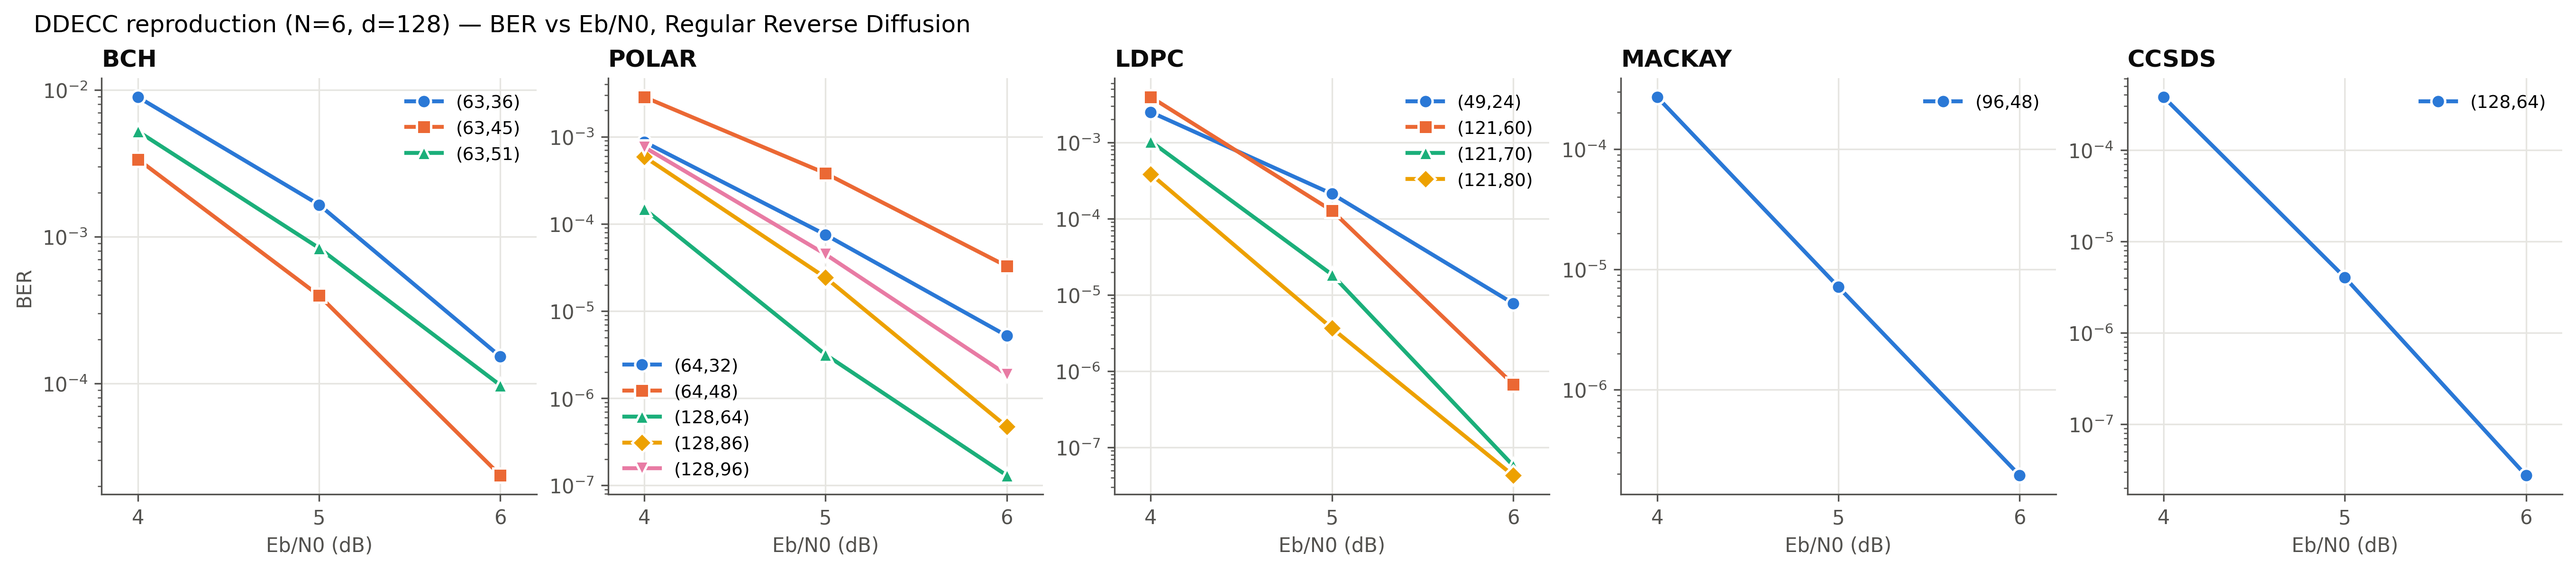
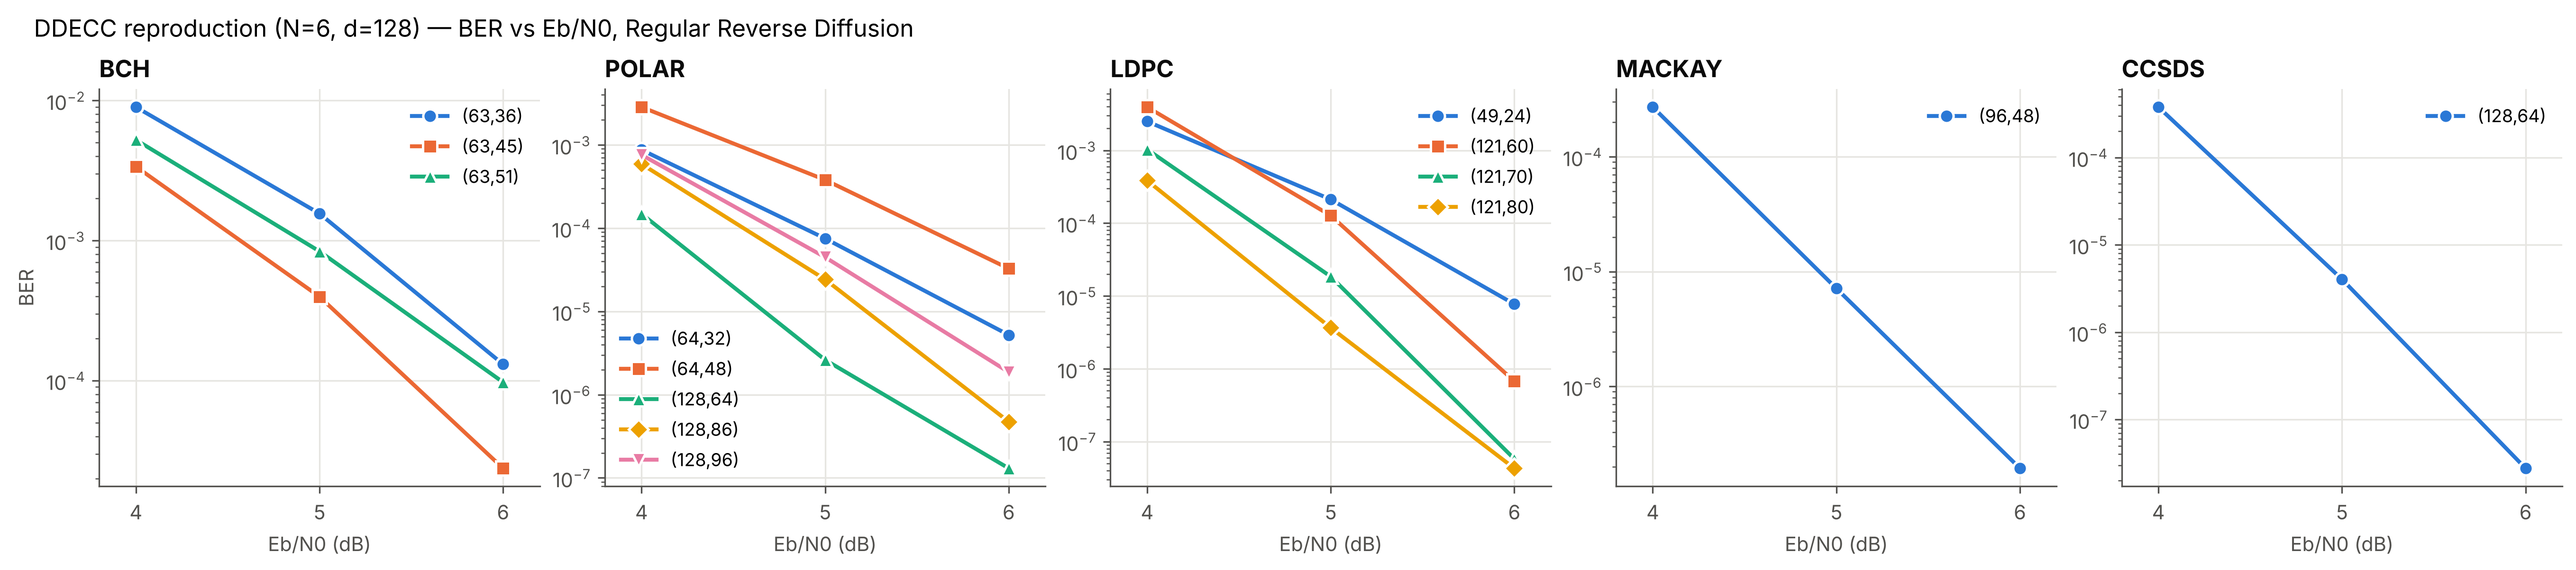
Fix result selection: prefer the most precise test of each point
- when a point was tested more than once, use the finished test that meets
  the paper's rule (>= 500 frame errors or 1e7 frames), then the one with
  more frame errors (before: the first log found)
- order old run folders by the time in their names, not by file dates
- mark points with < 500 frame errors (¹) and unknown frame counts (?);
  STRICT_500 option re-tests them
- regenerated results.csv, figures and README tables

Claude-Session: https://claude.ai/code/session_014M5jyY92kUSy41iFM7xkhz

diff --git a/scripts/ddecc_all_in_one.py b/scripts/ddecc_all_in_one.py
@@ -28,6 +28,7 @@ RETRAIN = {}            # e.g. {("BCH", 63, 36): 1, ("POLAR", 128, 86): 1}  -> c
 EBNO = [4, 5, 6]
 TEST_MODES = ["reg", "LS"]
 MIN_FER, MIN_FRAMES, MAX_FRAMES = 500, 1e5, 1e7
+STRICT_500 = False      # True: points that stopped with < 500 frame errors (old tests) are tested again in step 5
 TEST_BATCH, SEED, SAVE_EVERY_S = 2048, 42, 120
 # ======================================================================
 
@@ -64,6 +65,15 @@ def name(c):
     return f"{c[0]}({c[1]},{c[2]})"
 
 
+def folder_time(p):
+    # run folders end with __DD_MM_YYYY_HH_MM_SS: order by that time, not by Drive's file dates
+    m = re.search(r"__(\d\d)_(\d\d)_(\d{4})_(\d\d)_(\d\d)_(\d\d)$", Path(p).name)
+    if m:
+        d, mo, y, h, mi, s = map(int, m.groups())
+        return (y, mo, d, h, mi, s)
+    return (0,) * 6
+
+
 def tag(c):
     return f"{c[0]}_{c[1]}_{c[2]}"
 
@@ -93,7 +103,7 @@ def find_model(c):
     e = dict(dir=str(d), seed=seed)
     if (d / "train_done.txt").exists() and (d / "best_model").exists():
         return {**e, "state": "trained", "model": str(d / "best_model"), "src": "new"}
-    old = sorted(ROOT.glob(f"{t}__Code_n_{n}_k_{k}__*"), key=lambda p: p.stat().st_mtime)
+    old = sorted(ROOT.glob(f"{t}__Code_n_{n}_k_{k}__*"), key=folder_time)
     if c not in RETRAIN:
         done = [x for x in old if (x / "best_model").exists() and max_epoch(x) >= EPOCHS]
         if done:
@@ -164,7 +174,8 @@ def _main_section(txt, section):
         mf = re.search(rf"Test EbN0={e}, FER_DDPM=\[([^\]]*)\]", seg)
         if mb and mf and e in EBNO:
             fr = frames[idx] if idx < len(frames) else None
-            out[e] = dict(ber=nums(mb.group(1))[-1], fer=nums(mf.group(1))[-1], frames=fr, fe=None, done=True)
+            fer = nums(mf.group(1))[-1]
+            out[e] = dict(ber=nums(mb.group(1))[-1], fer=fer, frames=fr, fe=round(fer * fr) if fr else None, done=True)
     return out
 
 
@@ -172,7 +183,7 @@ def res_main_logs(c, model):
     t, n, k = c
     mdir = Path(model).parent
     texts = [(read(mdir / "logging.txt"), mdir.name + "/logging.txt")]
-    for d in sorted(ROOT.glob(f"{t}__Code_n_{n}_k_{k}__*"), key=lambda p: p.stat().st_mtime, reverse=True):
+    for d in sorted(ROOT.glob(f"{t}__Code_n_{n}_k_{k}__*"), key=folder_time, reverse=True):
         if d != mdir and f"resume='{model}'" in read(d / "logging.txt"):
             texts.append((read(d / "logging.txt"), d.name + "/logging.txt"))   # old "test only" runs
     for lf in ROOT.glob(f"{t}_n{n}_k{k}_N*_d*.log"):
@@ -184,7 +195,9 @@ def res_main_logs(c, model):
     for txt, src in texts:
         for mode, sec in MODE_NAME.items():
             for e, v in _main_section(txt, sec).items():
-                out.setdefault((mode, e), {**v, "src": src})
+                v = {**v, "src": src}
+                if (mode, e) not in out or rank(v) > rank(out[(mode, e)]):
+                    out[(mode, e)] = v
     return out
 
 
@@ -219,9 +232,40 @@ def results(c, m):
     out = {}
     for src in sources:
         for key, v in src.items():
-            if key not in out or (v["done"] and not out[key]["done"]):
+            if key not in out or rank(v) > rank(out[key]):
                 out[key] = v
     return out
+
+
+def protocol_ok(r):
+    # DDECC paper: >= 500 frame errors (and >= 1e5 frames); the 1e7-frame cap ends a point too.
+    # None = unknown (an old Main.py log without the frame count)
+    if not r["done"]:
+        return False
+    if r["fe"] is None and r["frames"] is None:
+        return None
+    return (r["fe"] or 0) >= MIN_FER or (r["frames"] or 0) >= MAX_FRAMES
+
+
+def rank(r):
+    # when one point was tested several times: finished > unfinished, then the protocol-compliant
+    # one (known > unknown > below 500 errors), then the one with more frame errors
+    ok = protocol_ok(r)
+    return (r["done"], 2 if ok else 1 if ok is None else 0, r["fe"] or 0, r["frames"] or 0)
+
+
+def is_done(r):
+    return bool(r) and r["done"] and (protocol_ok(r) is not False if STRICT_500 else True)
+
+
+def mark(r):
+    # ✓ finished; ✓? finished, frame count unknown; ✓¹ finished with < 500 errors; … unfinished; — none
+    if not r:
+        return "—"
+    if not r["done"]:
+        return "…"
+    ok = protocol_ok(r)
+    return "✓" if ok else "✓?" if ok is None else "✓¹"
 
 
 def check(verbose=True):
@@ -241,13 +285,16 @@ def check(verbose=True):
             for mode in TEST_MODES:
                 for e in EBNO:
                     r = s["res"].get((mode, e))
-                    cells += ("✓" if r and r["done"] else "…" if r else "—").rjust(7)
+                    cells += mark(r).rjust(7)
             where = (m.get("model") or m.get("resume") or m["dir"]).replace(str(ROOT) + "/", "")
             print(f"{name(c):<15}{st:<24}{cells}   {where}")
         n_tr = sum(s["model"]["state"] == "trained" for s in S.values())
-        n_te = sum(all(s["res"].get((mo, e), {}).get("done") for mo in TEST_MODES for e in EBNO) for s in S.values())
+        n_te = sum(all(is_done(s["res"].get((mo, e))) for mo in TEST_MODES for e in EBNO) for s in S.values())
         print("-" * 118)
         print(f"trained {n_tr}/{len(S)}, fully tested {n_te}/{len(S)}   (✓ finished, … unfinished, — no result)")
+        print(f"✓¹ finished with < {MIN_FER} frame errors before {MAX_FRAMES:.0e} frames (an old test that stopped at Main.py's "
+              f"100 errors): valid but less precise; STRICT_500 = True re-tests these in step 5")
+        print("✓? finished, but the old Main.py log does not record the frame count")
     return S
 
 
@@ -371,13 +418,14 @@ S = check(verbose=False)
 R = {c: s["res"] for c, s in S.items()}
 
 for mode in TEST_MODES:
-    print("\n" + "=" * 62 + f"\n−ln(BER), {MODE_NAME[mode]}   (* unfinished, — no result)")
+    print("\n" + "=" * 62 + f"\n−ln(BER), {MODE_NAME[mode]}   (* unfinished, ¹ < {MIN_FER} frame errors, ? frame count unknown, — no result)")
     print(f"{'code':<16}" + "".join(f"{e} dB".rjust(10) for e in EBNO))
     for c in CODES:
         row = ""
         for e in EBNO:
             r = R[c].get((mode, e))
-            row += "—".rjust(10) if not r else (f"{lnb(r):9.2f}" + (" " if r["done"] else "*"))
+            tail = {"—": "", "…": " *", "✓": "  ", "✓?": "? ", "✓¹": "¹ "}[mark(r)]
+            row += "—".rjust(10) if not r else f"{lnb(r):8.2f}{tail}"
         print(f"{name(c):<16}{row}")
 
 print("\nsources:")

diff --git a/README.md b/README.md
@@ -1,4 +1,7 @@
-# DDECC reproduction
+#
+¹ fewer than 500 frame errors (stopped at ~100, Main.py's default), ? frame count not in the log, * unfinished (9.9e6 of 1e7 frames). Paper protocol: ≥ 500 frame errors.
+
+ DDECC reproduction
 
 Reproduction of *Denoising Diffusion Error Correction Codes* (Choukroun & Wolf, ICLR 2023)
 with the code of https://github.com/yoniLc/DDECC, for 14 codes at Eb/N0 = 4, 5, 6 dB.
@@ -7,7 +10,16 @@ with the code of https://github.com/yoniLc/DDECC, for 14 codes at Eb/N0 = 4, 5, 
 - Test: per Eb/N0, until > 500 frame errors and > 1e5 frames, or 1e7 frames;
   regular and line-search reverse diffusion; metric −ln(BER), higher is better
 
-### Regular reverse diffusion: −ln(BER)
+#
+¹ fewer than 500 frame errors (stopped at ~100, Main.py's default), ? frame count not in the log, * unfinished (9.9e6 of 1e7 frames). Paper protocol: ≥ 500 frame errors.
+
+#
+¹ fewer than 500 frame errors (stopped at ~100, Main.py's default), ? frame count not in the log, * unfinished (9.9e6 of 1e7 frames). Paper protocol: ≥ 500 frame errors.
+
+#
+¹ fewer than 500 frame errors (stopped at ~100, Main.py's default), ? frame count not in the log, * unfinished (9.9e6 of 1e7 frames). Paper protocol: ≥ 500 frame errors.
+
+ Regular reverse diffusion: −ln(BER)
 
 | Code | 4 dB | 5 dB | 6 dB |
 |---|---|---|---|
@@ -26,7 +38,16 @@ with the code of https://github.com/yoniLc/DDECC, for 14 codes at Eb/N0 = 4, 5, 
 | MACKAY(96,48) | 8.21 | 11.85 | 15.46 |
 | CCSDS(128,64) | 7.88 | 12.42 | 17.41 |
 
-### Line-search reverse diffusion: −ln(BER)
+#
+¹ fewer than 500 frame errors (stopped at ~100, Main.py's default), ? frame count not in the log, * unfinished (9.9e6 of 1e7 frames). Paper protocol: ≥ 500 frame errors.
+
+#
+¹ fewer than 500 frame errors (stopped at ~100, Main.py's default), ? frame count not in the log, * unfinished (9.9e6 of 1e7 frames). Paper protocol: ≥ 500 frame errors.
+
+#
+¹ fewer than 500 frame errors (stopped at ~100, Main.py's default), ? frame count not in the log, * unfinished (9.9e6 of 1e7 frames). Paper protocol: ≥ 500 frame errors.
+
+ Line-search reverse diffusion: −ln(BER)
 
 | Code | 4 dB | 5 dB | 6 dB |
 |---|---|---|---|
@@ -45,13 +66,25 @@ with the code of https://github.com/yoniLc/DDECC, for 14 codes at Eb/N0 = 4, 5, 
 | MACKAY(96,48) | 7.86 | 11.51 | 15.37 |
 | CCSDS(128,64) | 7.66 | 12.05 | 17.44 |
 
-## Comparison with the DDECC paper (N = 6, d = 128)
+#
+¹ fewer than 500 frame errors (stopped at ~100, Main.py's default), ? frame count not in the log, * unfinished (9.9e6 of 1e7 frames). Paper protocol: ≥ 500 frame errors.
+
+#
+¹ fewer than 500 frame errors (stopped at ~100, Main.py's default), ? frame count not in the log, * unfinished (9.9e6 of 1e7 frames). Paper protocol: ≥ 500 frame errors.
+
+ Comparison with the DDECC paper (N = 6, d = 128)
 
 ![regular](figures/vs_paper_reg.png)
 
 ![line search](figures/vs_paper_LS.png)
 
-## Contents
+#
+¹ fewer than 500 frame errors (stopped at ~100, Main.py's default), ? frame count not in the log, * unfinished (9.9e6 of 1e7 frames). Paper protocol: ≥ 500 frame errors.
+
+#
+¹ fewer than 500 frame errors (stopped at ~100, Main.py's default), ? frame count not in the log, * unfinished (9.9e6 of 1e7 frames). Paper protocol: ≥ 500 frame errors.
+
+ Contents
 
 | folder | content |
 |---|---|
